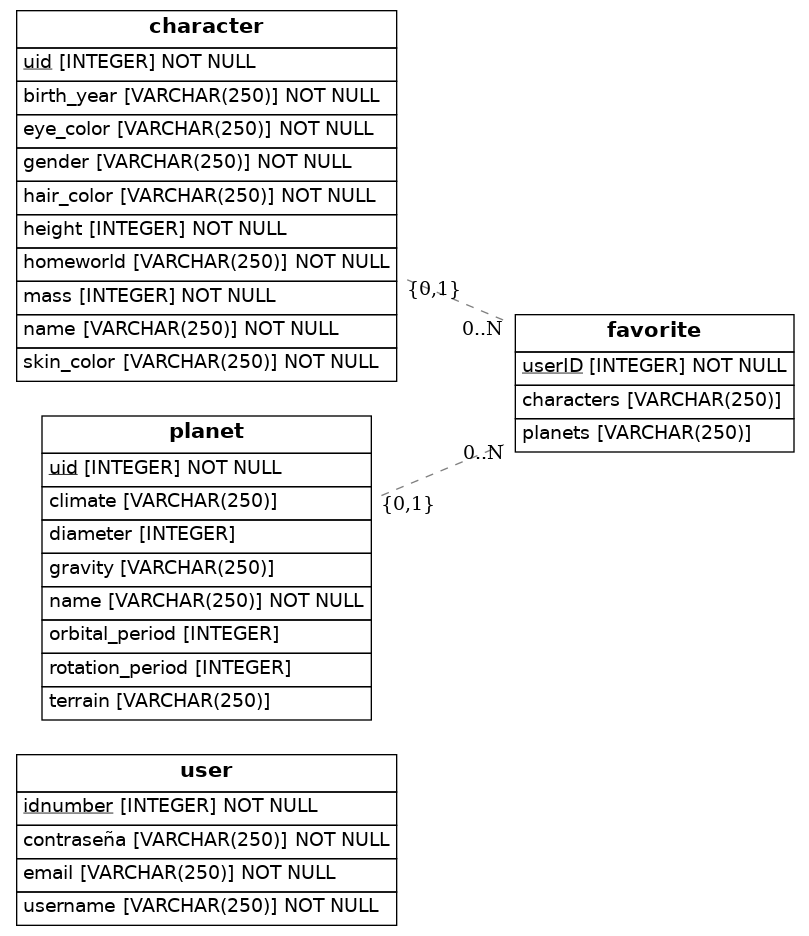
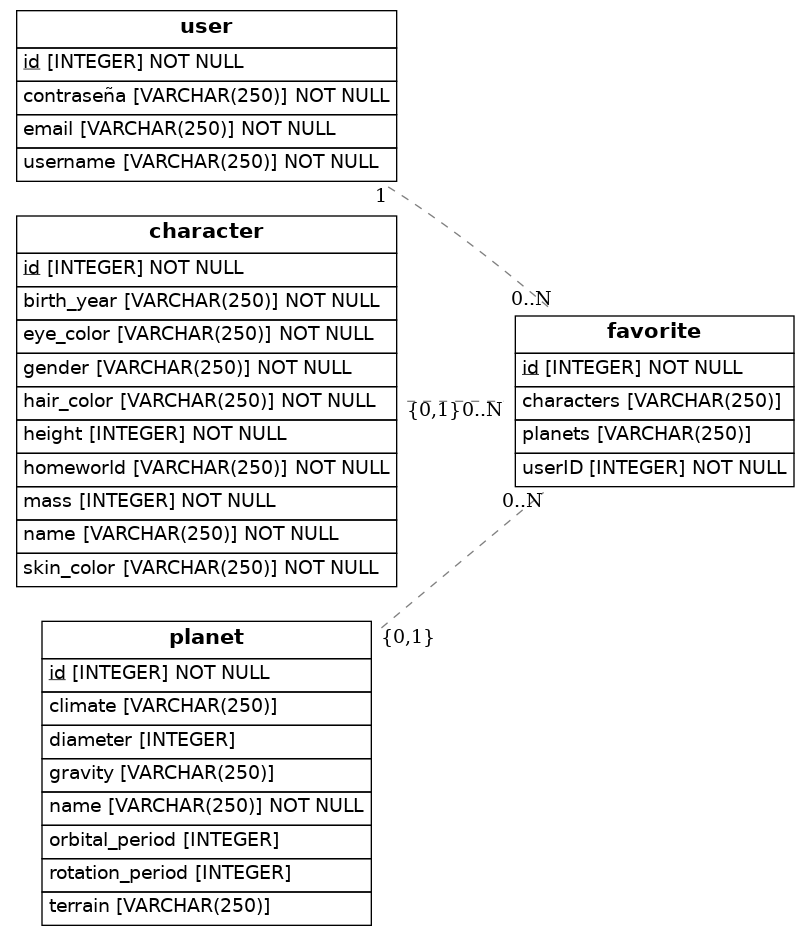
nuevo commit

Changed region(s): [[0.0, 0.0, 0.5253, 0.9915], [0.5562, 0.3098, 0.9889, 0.5577], [0.5562, 0.3408, 0.618, 0.3718]]

diff --git a/src/models.py b/src/models.py
@@ -9,16 +9,16 @@ Base = declarative_base()
 
 class User(Base):
     __tablename__ = 'user'
+    id = Column(Integer, primary_key=True)
     username = Column(String(250), nullable=False)
     email = Column(String(250), nullable=False)
     contraseña = Column(String(250), nullable=False)
-    idnumber = Column(Integer, nullable=False, primary_key=True)
 
 class Character(Base):
     __tablename__ = 'character'
     # Here we define columns for the table person
     # Notice that each column is also a normal Python instance attribute.
-    uid = Column(Integer, primary_key=True)
+    id = Column(Integer, primary_key=True)
     name = Column(String(250), nullable=False)
     gender = Column(String(250), nullable=False)
     height = Column(Integer, nullable=False)
@@ -33,7 +33,7 @@ class Planet(Base):
     __tablename__ = 'planet'
     # Here we define columns for the table address.
     # Notice that each column is also a normal Python instance attribute.
-    uid = Column(Integer, primary_key=True, nullable=False)
+    id = Column(Integer, primary_key=True, nullable=False)
     name = Column(String(250), nullable=False)
     rotation_period = Column(Integer)
     orbital_period = Column(Integer)
@@ -47,11 +47,13 @@ class Planet(Base):
     
 class Favorite(Base):
     __tablename__ = 'favorite'
+    id = Column(Integer, primary_key=True, nullable=False)
     planets = Column(String(250), ForeignKey('planet.name'))
     characters = Column(String(250), ForeignKey('character.name'))
-    userID = Column(Integer, primary_key=True, nullable=False)
-    relationship(Planet)
-    relationship(Character)
+    userID = Column(Integer, ForeignKey('user.id'), nullable=False)
+    planet = relationship(Planet)
+    character = relationship(Character)
+    user = relationship(User)
 
 ## Draw from SQLAlchemy base
 try:
